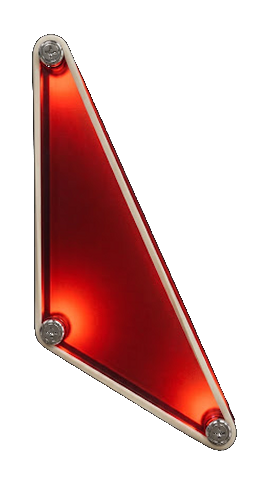
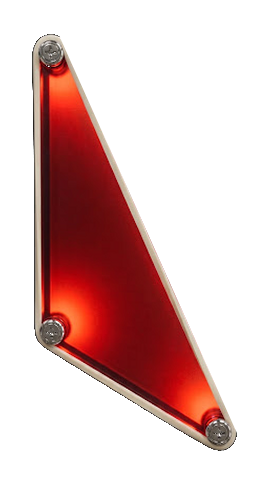
v0.42: roten Rand außerhalb des Schleuder-Gummis an der langen Seite entfernt
Claude-Session: https://claude.ai/code/session_01TgdQvcXdovTfUF3y52Myqe

diff --git a/index.html b/index.html
@@ -141,7 +141,7 @@
 <div id="stage"><canvas id="c" aria-label="Flippertisch"></canvas></div>
 
 <script>
-const APP_VERSION = '0.41';          // bei JEDER Änderung hochzählen
+const APP_VERSION = '0.42';          // bei JEDER Änderung hochzählen
 </script>
 <script>
 // ---------- Ton (Web Audio, synthetisch, keine Dateien) ----------

diff --git a/CLAUDE.md b/CLAUDE.md
@@ -189,7 +189,8 @@ Logos, Bilder oder Filmzitate (Seite ist öffentlich). Festgelegt:
   Abbildung exakt auf die Schleuder-Ecken (70/572, 70/628, 104/648), Maßstab fast gleichmäßig (0,96/0,95); schwarzer
   Hintergrund per Helligkeit durchsichtig; `schleuder.png` 270×480 = 5 px/Einheit, Ausschnitt ab (60/562), 54×96.
   Die zwei Außenkanten der Schleuder sind als `schleuder: true` markiert → keine Metallbleche/Pfosten/weiße Kante mehr darüber,
-  solange das Bild geladen ist (`schleuderBildOk()`); sonst Rückfall auf das alte rote Dreieck.
+  solange das Bild geladen ist (`schleuderBildOk()`); sonst Rückfall auf das alte rote Dreieck. 0.42: roter Lichtschein
+  außerhalb des Gummis an der langen Seite weggeschnitten (alles > 14,5 px = 2,9 Einheiten außerhalb der Kante).
 - Physik-Test: `node tools/sim.js [minuten]` (Node-Simulation mit `window.__TEST__`): Abschuss-Pfad, jedes der 5
   Rundziele per Kanone treffbar (Winkel-Scan), Multiball per Treffer, dann Autoplay (Standard 10 min): Kugel
   verlässt nie den Tisch, bleibt nie hängen. Seit 0.18 auch Schädel-Klappziel → LOAD GUN → Laden, Targetlicht
